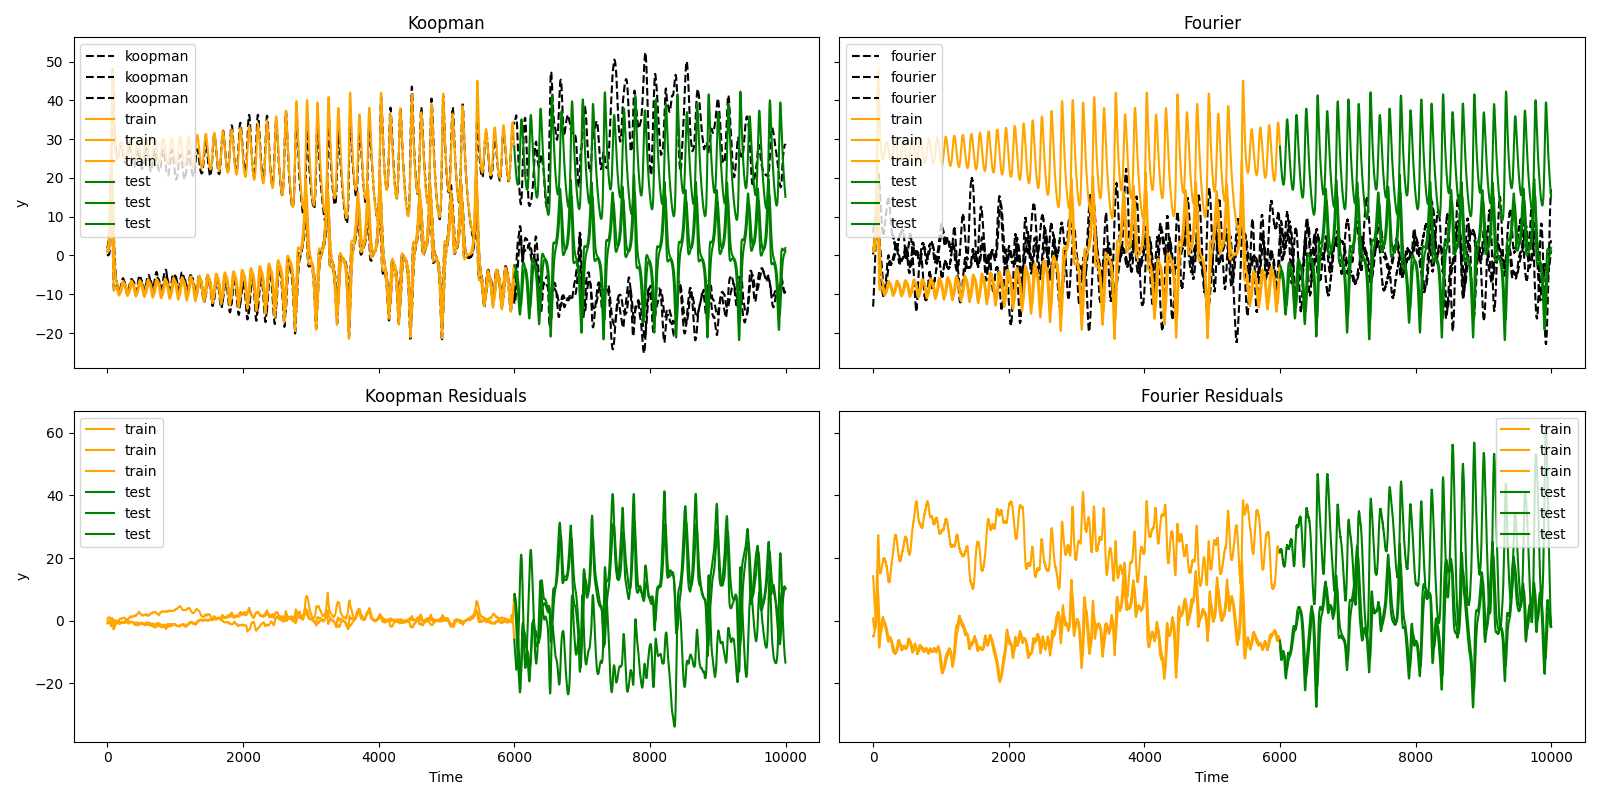
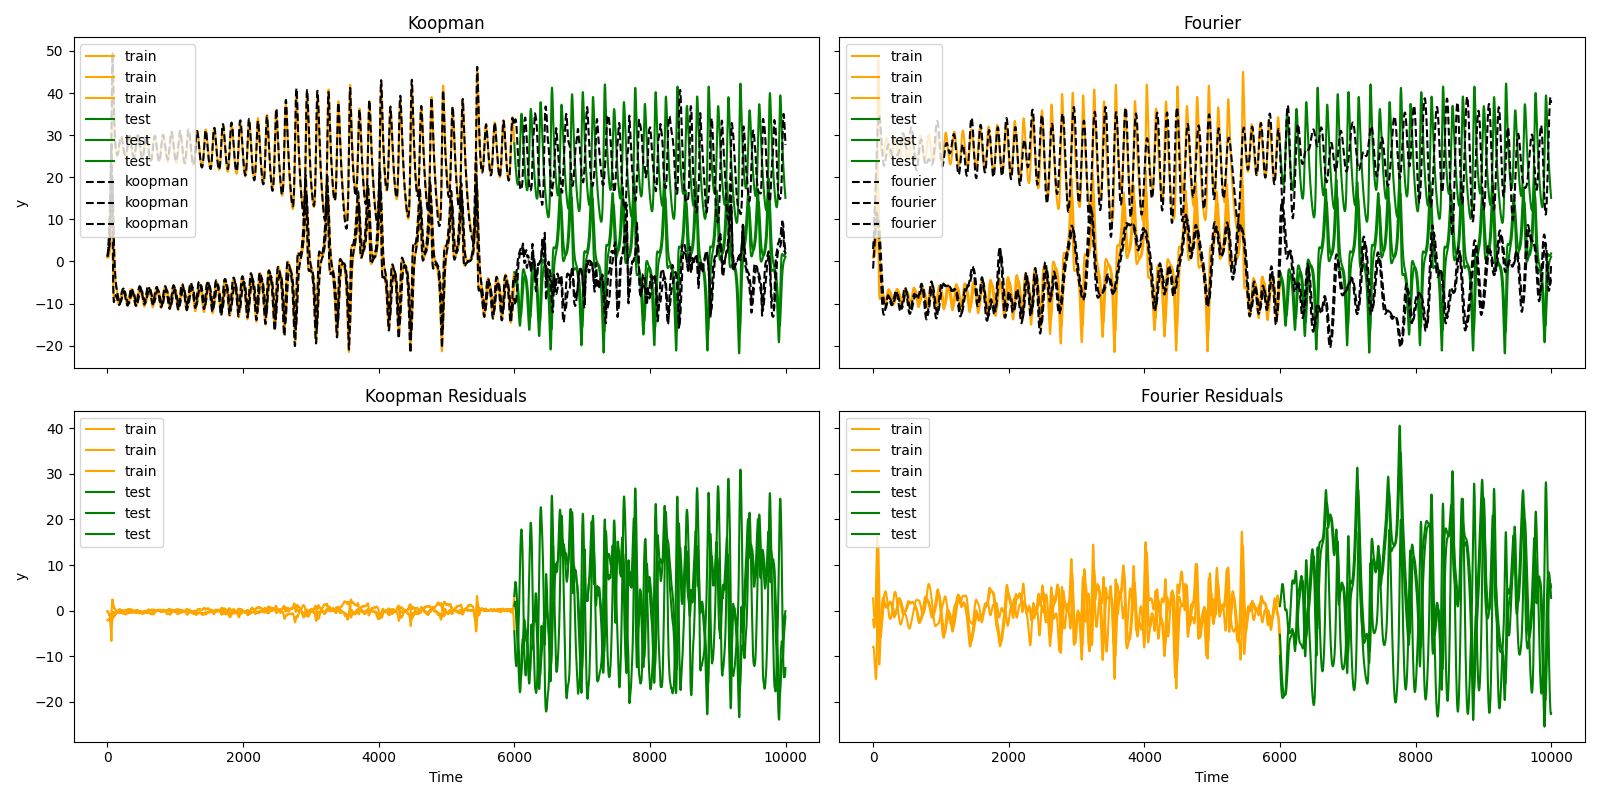
lorenz results

diff --git a/main.py b/main.py
@@ -66,7 +66,7 @@ class data:
         xyz0 = [x0, y0, z0]
 
         # Time span for simulation
-        t_span = [0, 50]
+        t_span = [0, 150]
 
         # Solve ODE using scipy.integrate.solve_ivp
         sol = solve_ivp(lorenz_ode, t_span, xyz0,t_eval=np.linspace(0,50,10000))
@@ -113,12 +113,12 @@ def main(data,data_kwargs,normalize,num_freqs_fourier,num_freqs_koopman,n_neuron
     f = fourier(num_freqs=num_freqs_fourier)
     if normalize:
         scaled = f.scale(x_train)
-        f.fit(scaled, iterations = 100,verbose = True)
+        f.fit(scaled, iterations = 1000,verbose = True)
         print(1/f.freqs)
         xhat_fourier = f.predict(size)
         xhat_fourier = f.descale(xhat_fourier)
     else:
-        f.fit(x_train, iterations = 500,verbose = True)
+        f.fit(x_train, iterations = 1000,verbose = True)
         print(1/f.freqs)
         xhat_fourier = f.predict(size)
     ### koopman
@@ -156,7 +156,7 @@ def main(data,data_kwargs,normalize,num_freqs_fourier,num_freqs_koopman,n_neuron
     axs[1,0].set_ylabel('y')
     axs[1,0].set_xlabel('Time')
     if zoom:
-        xlim = (split-200, split+800)
+        xlim = (split-100, split+100)
         for ax in axs.flat:
             ax.set(xlim=xlim)
     plt.tight_layout()
@@ -209,18 +209,19 @@ if __name__ == '__main__':
     # params["figname"] = "artificial_noise_nonlinear"
     # main(**params)
     ### experiment 5
-    # params["data"] = data.lorenz
-    # params["data_kwargs"] = {"split_ratio": 0.6}
-    # params["figname"] = "lorenz"
-    # params["num_freqs_fourier"] = 24
-    # params["num_freqs_koopman"] = 24
-    # params["n_neurons"] = 512
-    # params["n_layers"] = 3
-    # params["fit_kwargs"]["interval"] = 25
-    # params["fit_kwargs"]["iterations"] = 1000
-    # params["fit_kwargs"]["cutoff"] = 500
-    # params["zoom"] = False
-    # main(**params)
+    params["data"] = data.lorenz
+    params["data_kwargs"] = {"split_ratio": 0.6}
+    params["figname"] = "lorenz"
+    params["num_freqs_fourier"] = 24
+    params["num_freqs_koopman"] = 24
+    params["n_neurons"] = 512
+    params["n_layers"] = 3
+    params["fit_kwargs"]["interval"] = 25
+    params["fit_kwargs"]["iterations"] = 1000
+    params["fit_kwargs"]["cutoff"] = 500
+    params["zoom"] = False
+    params["normalize"] = True
+    main(**params)
     ### experiment 6
     # params["data"] = data.energy_consumption
     # params["data_kwargs"] = {"split_ratio": 0.6}
